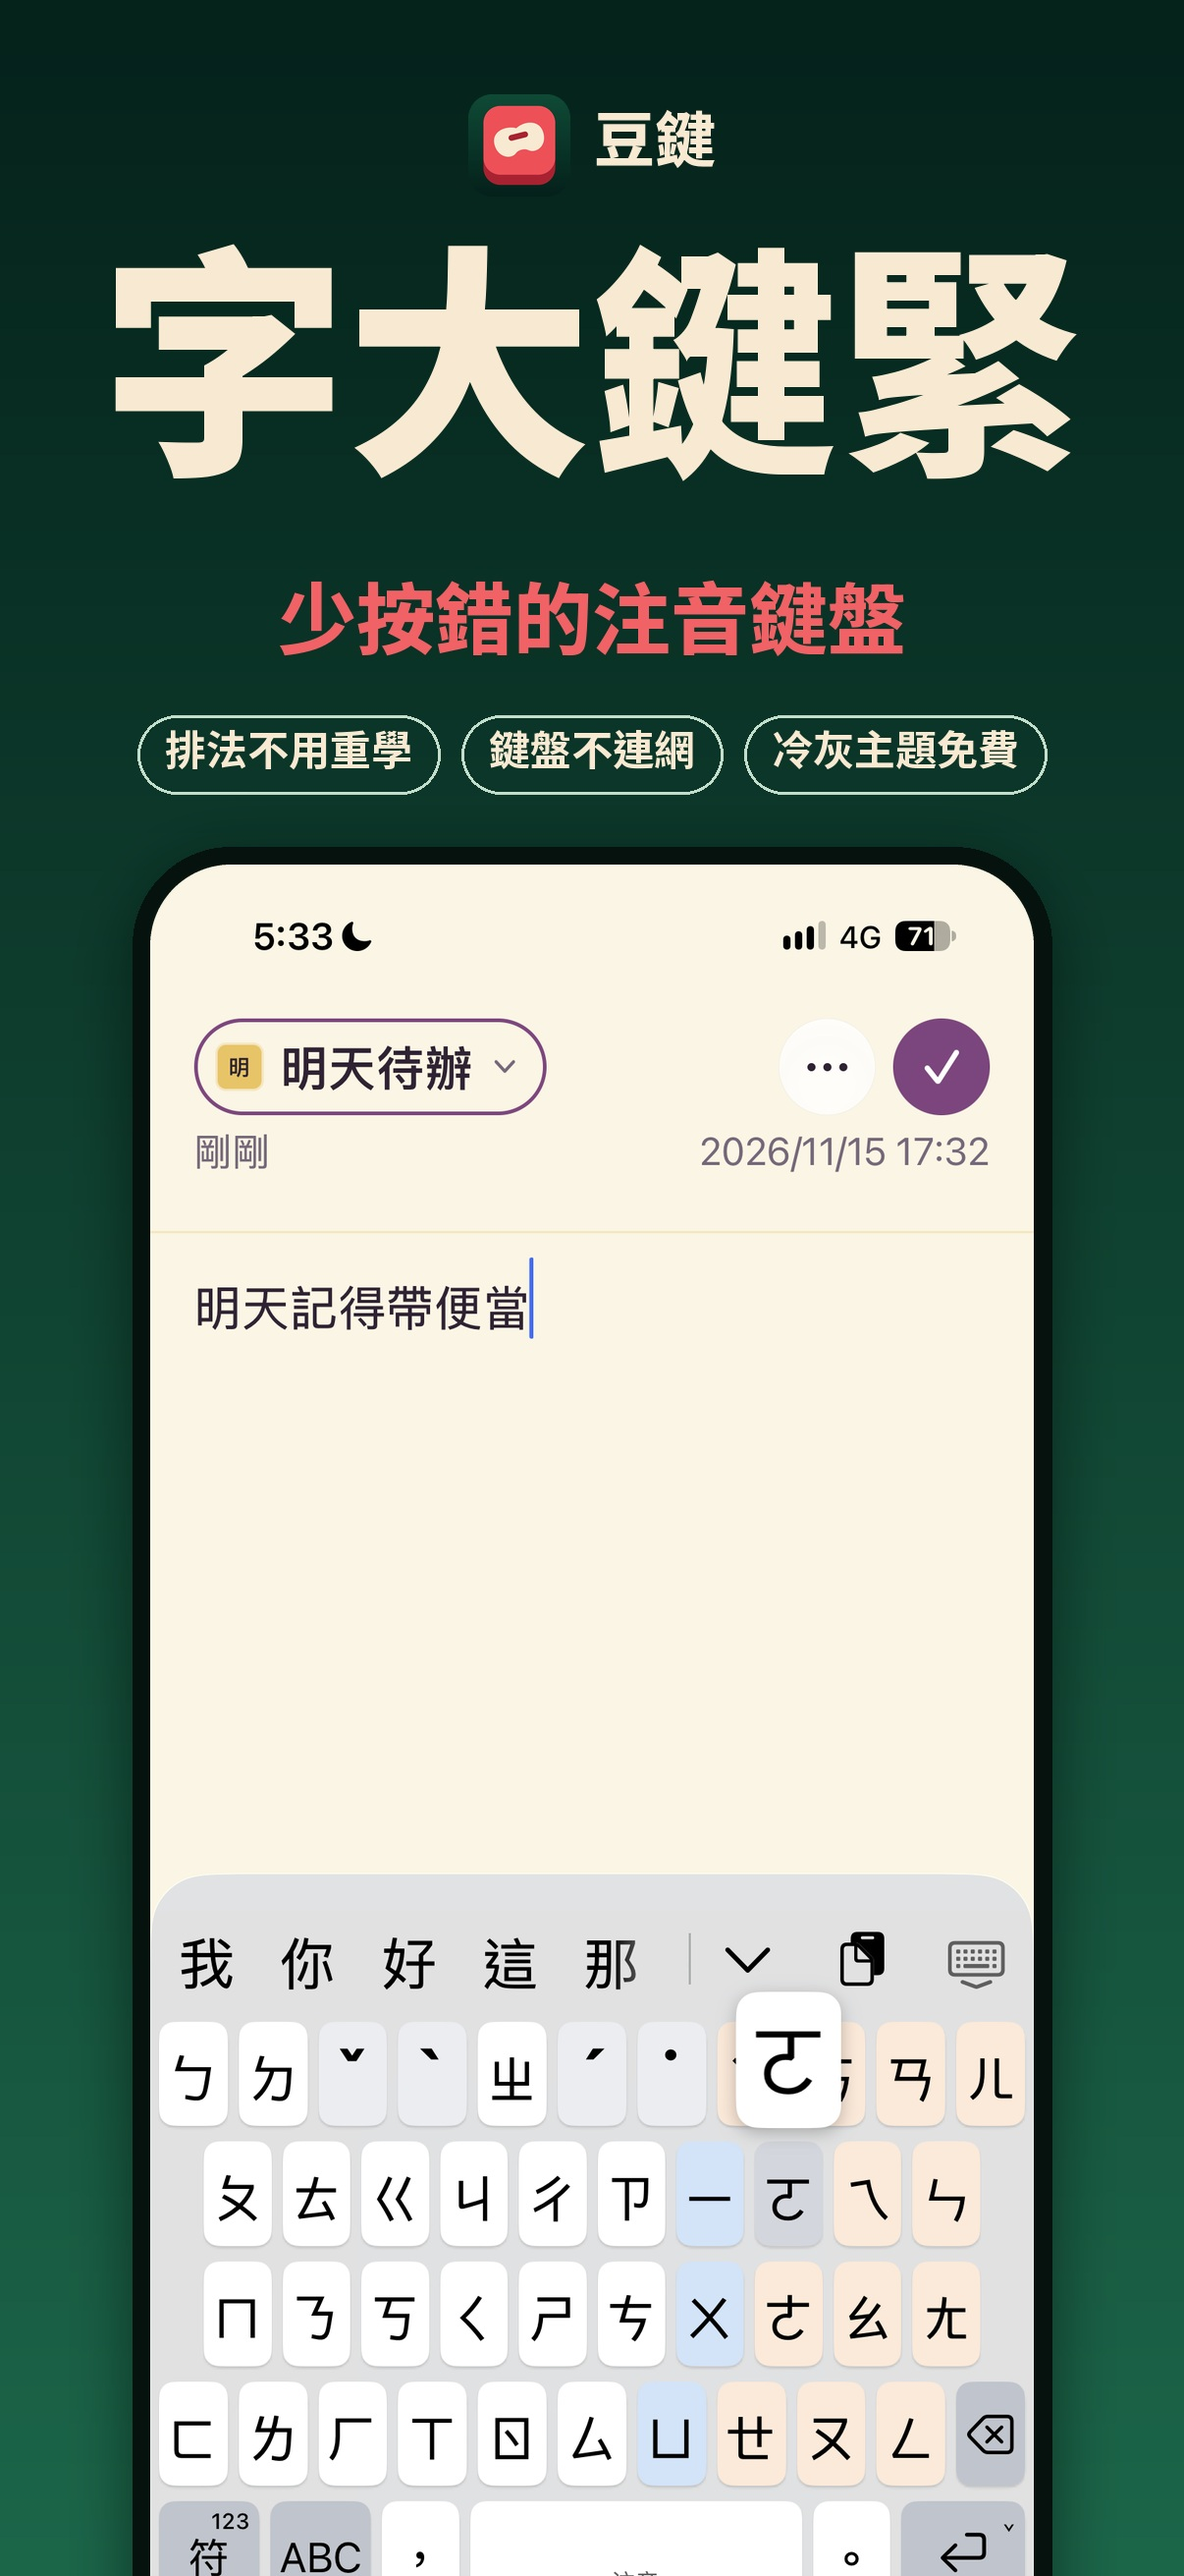
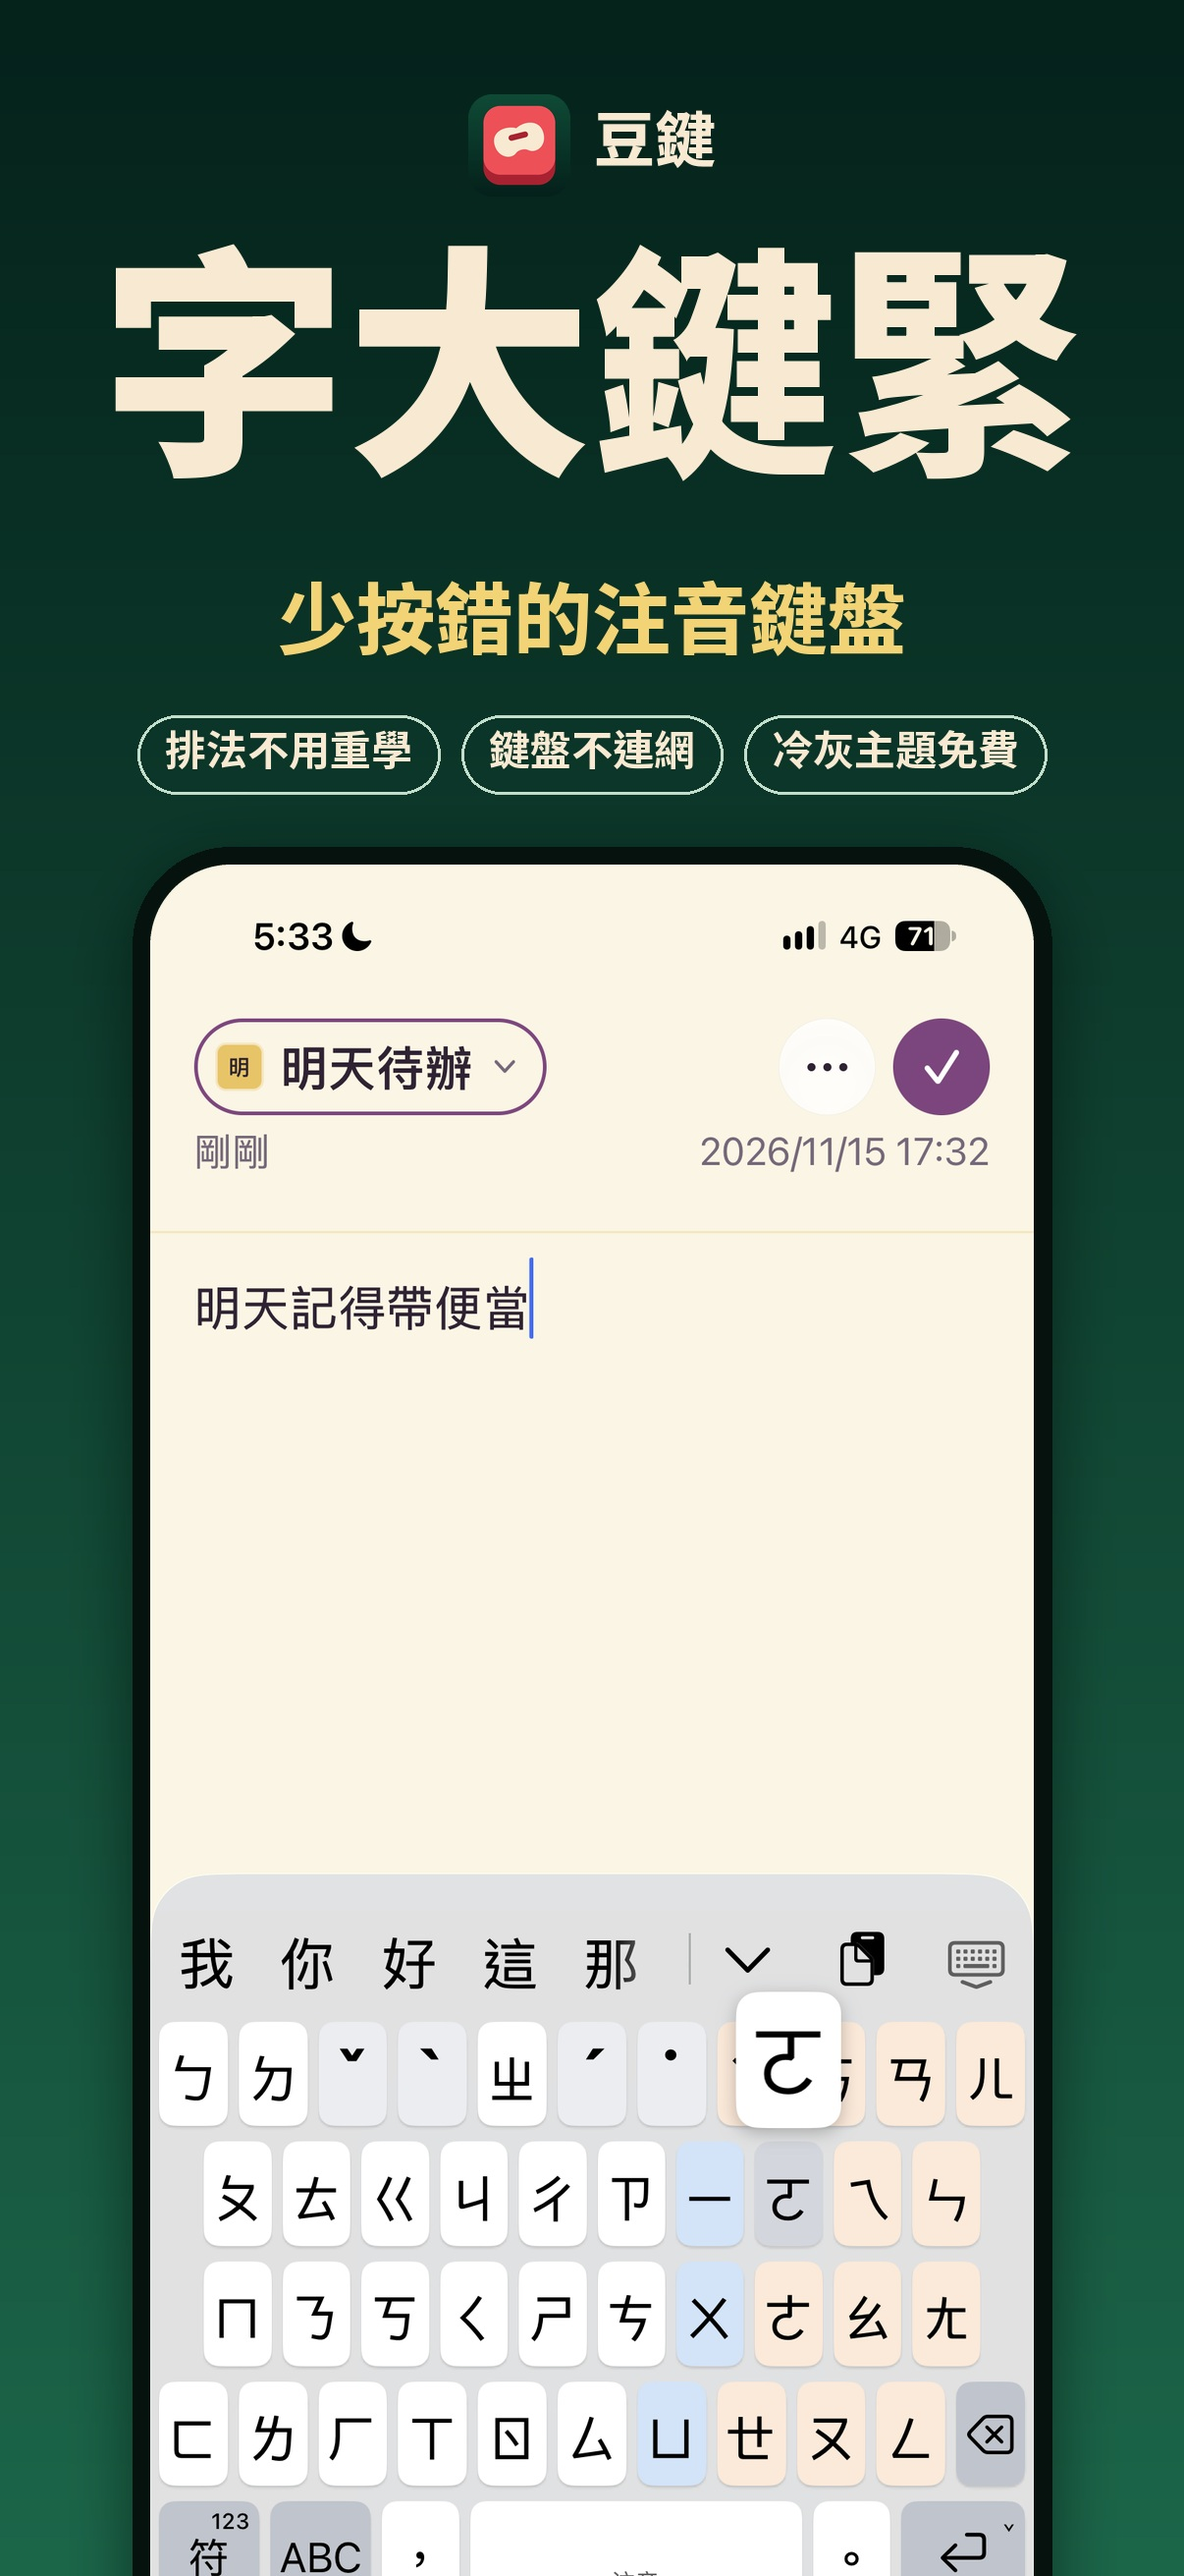
[文件] 上架圖：放大跳出只留第 4（iCloud）、5 張（候選列）並調小到 1.08 倍；第二行大標從珊瑚紅換成毛豆黃；附強調色比較圖 [skip ci]

Changed region(s): [[0.2454, 0.2162, 0.767, 0.278]]

diff --git a/.aso/截圖/make_screenshots.py b/.aso/截圖/make_screenshots.py
@@ -22,31 +22,26 @@ SIZES = {"6.3": (1206, 2622), "6.9": (1320, 2868)}
 # 豆鍵 icon 的深綠：上深下淺
 BG_TOP, BG_BOTTOM = (5, 34, 27), (28, 102, 74)
 CREAM = (248, 234, 210)   # 大標（icon 的豆子）
-CORAL = (240, 98, 102)    # 第二行強調（icon 的鍵帽）
+ACCENT = (242, 212, 118)  # 第二行強調：毛豆黃（2026-11-15 多米嫌珊瑚紅怪，換掉）
 SAGE = (196, 222, 204)    # 描述句
 BEZEL = (6, 18, 14)       # 手機邊框
 SHADOW = (0, 14, 8)
 
 # name 檔名｜raw 原圖｜title 兩行大標｜sub 描述句｜top 手機上緣（1206 寬時的 y）
-# pops 把原圖裡的一塊放大、跳出手機外：[(x0, y0, x1, y1, 倍率, 圓角)]，座標是原圖像素
+# pops 把原圖裡的一塊稍微放大、跳出手機外。多米 2026-11-15：太刻意，只留真的要指給人看的那一兩張：[(x0, y0, x1, y1, 倍率, 圓角)]，座標是原圖像素
 SHOTS = [
     dict(name="01-字大", raw="1.PNG", hero=True, title=["字大鍵緊"], sub="少按錯的注音鍵盤",
          pills=["排法不用重學", "鍵盤不連網", "冷灰主題免費"]),
-    dict(name="02-分色", raw="1.PNG", title=["介音藍", "韻母橘"], sub="聲母在左、韻母在右，一眼分得出來",
-         pops=[(0, 1565, 1206, 2222, 1.1, 40)]),
+    dict(name="02-分色", raw="1.PNG", title=["介音藍", "韻母橘"], sub="聲母在左、韻母在右，一眼分得出來"),
     dict(name="03-排法", raw="3.PNG", title=["排法不用", "重新學"], sub="標準注音排法，換過來就能打"),
     dict(name="04-隱私", raw="4.PNG", title=["打的字", "只留在手機上"], sub="鍵盤不連網，iCloud 同步預設是關的",
-         pops=[(62, 1338, 1146, 1488, 1.2, 50)]),
+         pops=[(62, 1338, 1146, 1488, 1.08, 50)]),
     dict(name="05-一聲", raw="5.PNG", title=["沒打聲調？", "按空白當一聲"], sub="空白鍵上的小字，寫著這一下是一聲還是選字",
-         pops=[(0, 1438, 1206, 1546, 1.15, 30), (436, 2228, 892, 2380, 1.7, 36)]),
-    dict(name="06-字典", raw="6.PNG", title=["改選過的詞", "下次排前面"], sub="鍵盤學到的詞，打開 App 就看得到",
-         pops=[(48, 686, 1160, 912, 1.15, 40)]),
-    dict(name="07-剪貼簿", raw="7.PNG", title=["複製過的字", "點一下就貼"], sub="常用的可以固定、加標籤",
-         pops=[(0, 1590, 1206, 1862, 1.15, 30)]),
-    dict(name="08-主題", raw="8.PNG", title=["8 款豆子主題", "冷灰免費"], sub="換顏色、字體和圓角，鍵位不變",
-         pops=[(104, 540, 1104, 1172, 1.12, 50)]),
-    dict(name="09-紅豆", raw="9.PNG", title=["紅豆主題", "楷書鍵帽字"], sub="每款都有淺色、深色兩套",
-         pops=[(0, 1565, 1206, 2222, 1.1, 40)]),
+         pops=[(0, 1438, 1206, 1546, 1.08, 30)]),
+    dict(name="06-字典", raw="6.PNG", title=["改選過的詞", "下次排前面"], sub="鍵盤學到的詞，打開 App 就看得到"),
+    dict(name="07-剪貼簿", raw="7.PNG", title=["複製過的字", "點一下就貼"], sub="常用的可以固定、加標籤"),
+    dict(name="08-主題", raw="8.PNG", title=["8 款豆子主題", "冷灰免費"], sub="換顏色、字體和圓角，鍵位不變"),
+    dict(name="09-紅豆", raw="9.PNG", title=["紅豆主題", "楷書鍵帽字"], sub="每款都有淺色、深色兩套"),
 ]
 
 
@@ -118,7 +113,7 @@ def compose(size, raw, title, sub, top=None, pops=None, hero=False, pills=None, 
         im.paste(icon, (int(x0), y0), mask(icon.size, int(24 * k)))
         d.text((x0 + icon.width + 24 * k, y0 + (icon.height - fn.size * 1.45) / 2), "豆鍵", font=fn, fill=CREAM)
         center(d, w, 214 * k, title[0], fit(d, title[0], 250 * k, w * 0.9), CREAM)
-        center(d, w, 580 * k, sub, font(80 * k, 800), CORAL)
+        center(d, w, 580 * k, sub, font(80 * k, 800), ACCENT)
         pill_row(d, w, 728 * k, pills, font(42 * k, 700), k)
         top = top or 880
         phone_w = 900
@@ -127,7 +122,7 @@ def compose(size, raw, title, sub, top=None, pops=None, hero=False, pills=None, 
         ft = font(size_t)
         y = 96 * k
         for i, t in enumerate(title):
-            center(d, w, y, t, ft, CORAL if i == len(title) - 1 and len(title) > 1 else CREAM)
+            center(d, w, y, t, ft, ACCENT if i == len(title) - 1 and len(title) > 1 else CREAM)
             y += size_t * 1.2
         y += 44 * k
         center(d, w, y, sub, fit(d, sub, 56 * k, w * 0.9, 500), SAGE)
@@ -149,7 +144,7 @@ def compose(size, raw, title, sub, top=None, pops=None, hero=False, pills=None, 
         qx = int(min(max(cx - qw / 2, 14 * k), w - qw - 14 * k))
         qy = int(min(cy - qh / 2, h - qh - 40 * k))
         qr = int(rad * sc * zoom)
-        im = shadow(im, (qx, qy, qx + qw, qy + qh), qr, int(w * 0.022), alpha=170, dy=24)
+        im = shadow(im, (qx, qy, qx + qw, qy + qh), qr, int(w * 0.022), alpha=120, dy=16)
         im.paste(piece.resize((qw, qh), Image.LANCZOS), (qx, qy), mask((qw, qh), qr))
     return im
 

diff --git a/.aso/05-素材文案.md b/.aso/05-素材文案.md
@@ -10,14 +10,14 @@
 | 格 | 要拍的畫面（全部用 1.1 的 build） | 說明文字 | 回答什麼 | 給誰 |
 |---|---|---|---|---|
 | 1 | 備忘錄裡打一句話，注音鍵面（冷灰、淺色），候選列有字，**按著一顆鍵**讓放大泡泡跳出來 | 主視覺：豆鍵 icon＋「字大鍵緊」＋「少按錯的注音鍵盤」＋三顆小標（排法不用重學、鍵盤不連網、冷灰主題免費） | 這是什麼（跟名稱講同一件事） | 所有人 |
-| 2 | 同第 1 張的原圖，合成時只放大鍵盤那一塊 | 介音藍／韻母橘＋「聲母在左、韻母在右，一眼分得出來」（鍵盤四排放大跳出手機） | 怎麼運作 | 所有人 |
+| 2 | 同第 1 張的原圖，合成時只放大鍵盤那一塊 | 介音藍／韻母橘＋「聲母在左、韻母在右，一眼分得出來」 | 怎麼運作 | 所有人 |
 | 3 | 同一句話，深色模式 | 排法不用／重新學＋「標準注音排法，換過來就能打」 | 為什麼要裝（03 空位） | 所有人 |
-| 4 | 豆鍵 App →設定→資料那一段（iCloud 同步開關是關的） | 打的字／只留在手機上＋「鍵盤不連網，iCloud 同步預設是關的」（iCloud 那列放大） | 完全取用、隱私 | 往下滑的人 |
-| 5 | 打「ㄉㄧ」按一下空白，候選只剩一聲字、空白鍵小字是「選字」 | 沒打聲調？／按空白當一聲＋「空白鍵上的小字，寫著這一下是一聲還是選字」（候選列、空白鍵放大） | 選字準不準、跟別人哪裡不同 | 往下滑的人 |
-| 6 | 豆鍵 App 字典分頁，有幾個「自動」的詞 | 改選過的詞／下次排前面＋「鍵盤學到的詞，打開 App 就看得到」（自動學習那張卡放大） | 選字會不會越用越順 | 往下滑的人 |
-| 7 | 鍵盤的剪貼簿面板，兩欄卡片，有一兩張固定的 | 複製過的字／點一下就貼＋「常用的可以固定、加標籤」（剪貼簿面板放大） | 留下來的理由 | 往下滑的人 |
-| 8 | 豆鍵 App 主題分頁 | 8 款豆子主題／冷灰免費＋「換顏色、字體和圓角，鍵位不變」（主題預覽放大） | 免費能用什麼 | 往下滑的人 |
-| 9（選做） | 紅豆主題打字畫面 | 紅豆主題／楷書鍵帽字＋「每款都有淺色、深色兩套」（鍵盤四排放大） | 留下來的理由 | 往下滑的人 |
+| 4 | 豆鍵 App →設定→資料那一段（iCloud 同步開關是關的） | 打的字／只留在手機上＋「鍵盤不連網，iCloud 同步預設是關的」（iCloud 那列稍微放大） | 完全取用、隱私 | 往下滑的人 |
+| 5 | 打「ㄉㄧ」按一下空白，候選只剩一聲字、空白鍵小字是「選字」 | 沒打聲調？／按空白當一聲＋「空白鍵上的小字，寫著這一下是一聲還是選字」（候選列稍微放大） | 選字準不準、跟別人哪裡不同 | 往下滑的人 |
+| 6 | 豆鍵 App 字典分頁，有幾個「自動」的詞 | 改選過的詞／下次排前面＋「鍵盤學到的詞，打開 App 就看得到」 | 選字會不會越用越順 | 往下滑的人 |
+| 7 | 鍵盤的剪貼簿面板，兩欄卡片，有一兩張固定的 | 複製過的字／點一下就貼＋「常用的可以固定、加標籤」 | 留下來的理由 | 往下滑的人 |
+| 8 | 豆鍵 App 主題分頁 | 8 款豆子主題／冷灰免費＋「換顏色、字體和圓角，鍵位不變」 | 免費能用什麼 | 往下滑的人 |
+| 9（選做） | 紅豆主題打字畫面 | 紅豆主題／楷書鍵帽字＋「每款都有淺色、深色兩套」 | 留下來的理由 | 往下滑的人 |
 
 ### 截圖時要注意
 
@@ -34,7 +34,7 @@
 python -I .aso/截圖/make_screenshots.py
 ```
 
-- 版型照茄記 1.1（2026-11-15 多米定）：整組同一個深綠漸層底；兩行大標，第二行用 icon 鍵帽的珊瑚紅；一句描述；手機放大、從底部出血；重點那一塊放大跳出手機框；第一張是主視覺大字。
+- 版型照茄記 1.1（2026-11-15 多米定）：整組同一個深綠漸層底；兩行大標，第二行用毛豆黃（珊瑚紅多米嫌怪，換掉）；一句描述；手機放大、從底部出血；只有第 4、5 張把重點稍微放大跳出手機（全部都跳太刻意）；第一張是主視覺大字。
 - 產出 `out/6.3/`（1206×2622）和 `out/6.9/`（1320×2868）兩組，App Store Connect 兩格都能放。
 - 每行字在腳本裡會檢查寬度，太寬會直接報錯。
 
